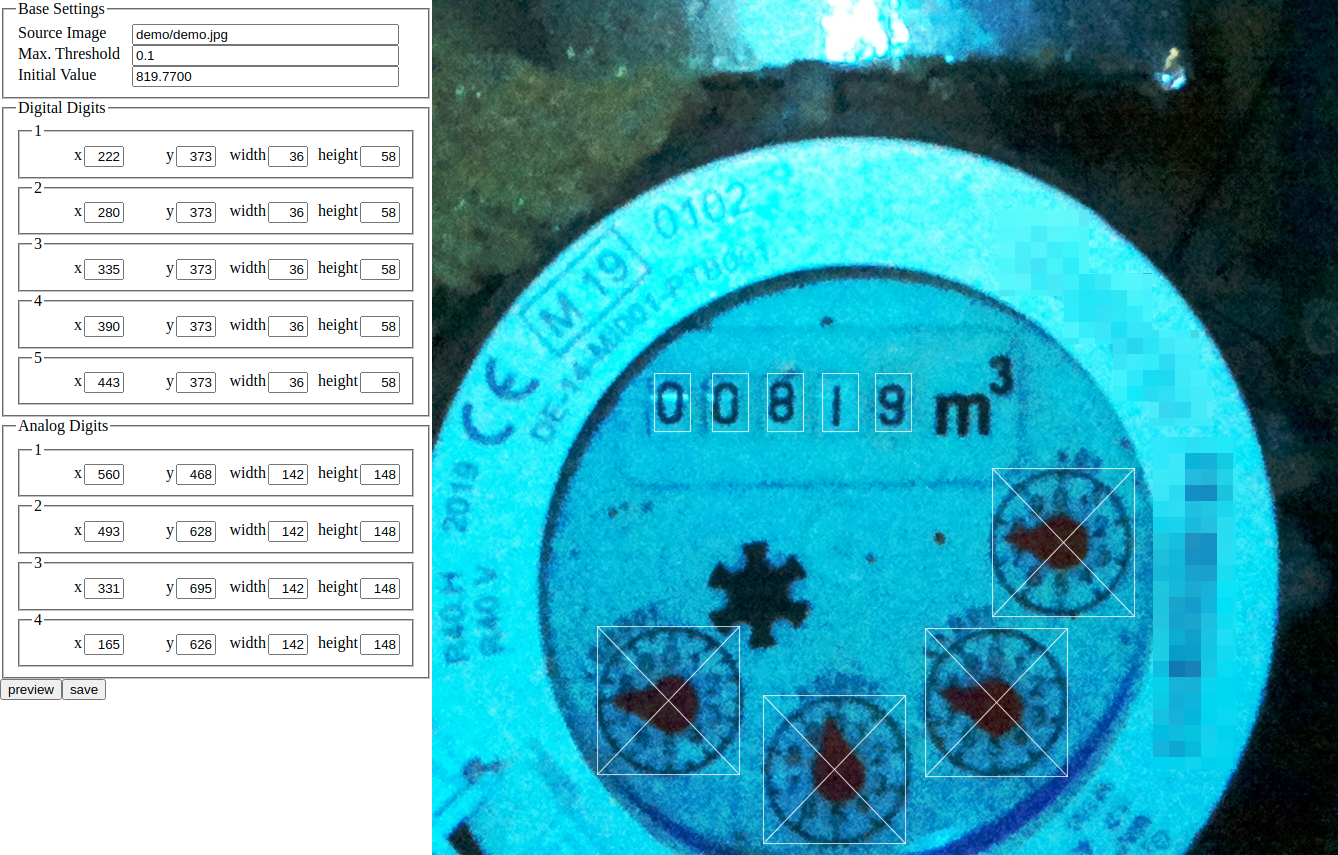
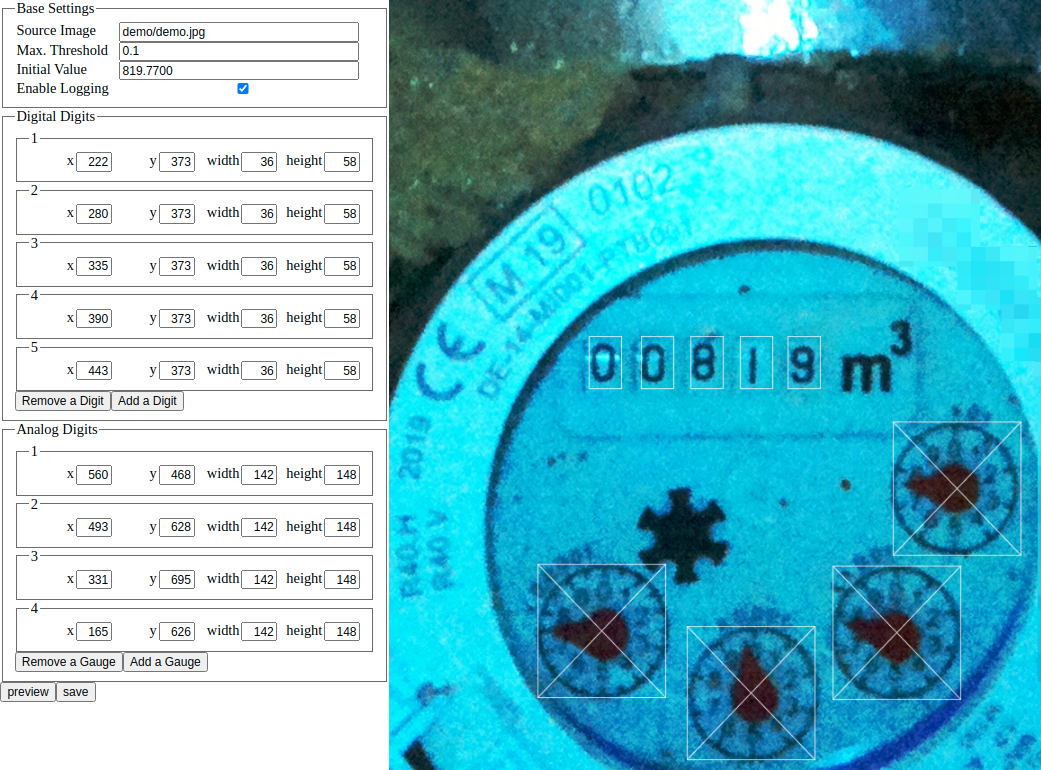
fix #6 - Allow to enable/disable logging

diff --git a/src/configure.php b/src/configure.php
@@ -14,6 +14,11 @@ if (isset($_POST['sourceImage'])) {
 if (isset($_POST['maxThreshold'])) {
     $config['maxThreshold'] = $_POST['maxThreshold'];
 }
+if (isset($_POST['logging']) && ($_POST['logging'] == 'on')) {
+    $config['logging'] = true;
+} else {
+    $config['logging'] = false;
+}
 if (isset($_POST['lastValue'])) {
     $lastValue = $_POST['lastValue'];
 }
@@ -53,14 +58,15 @@ if (isset($_POST) && ($_POST['action'] == 'save')) {
     </style>
     <script type="text/javascript">
         function removeElement(prefix) {
-            allElements = document.querySelectorAll("fieldset[id^="+prefix+"]");
-            return document.getElementById(prefix+"_"+allElements.length).remove();
+            allElements = document.querySelectorAll("fieldset[id^=" + prefix + "]");
+            return document.getElementById(prefix + "_" + allElements.length).remove();
         }
+
         function addElement(prefix) {
-            numberElements = document.querySelectorAll("fieldset[id^="+prefix+"]").length;
-            var form=document.getElementById('config');
+            numberElements = document.querySelectorAll("fieldset[id^=" + prefix + "]").length;
+            var form = document.getElementById('config');
             var input = document.createElement('input');
-            input.setAttribute('name', prefix+'['+(numberElements+1)+']');
+            input.setAttribute('name', prefix + '[' + (numberElements + 1) + ']');
             input.setAttribute('value', '0');
             input.setAttribute('type', 'hidden')
             form.appendChild(input);
@@ -80,6 +86,8 @@ if (isset($_POST) && ($_POST['action'] == 'save')) {
         <input type="text" name="maxThreshold" id="maxThreshold" value="<?php echo $config['maxThreshold']; ?>">
         <legend for="lastValue">Initial Value</legend>
         <input type="text" name="lastValue" id="lastValue" value="<?php echo $lastValue ?>">
+        <legend for="logging">Enable Logging</legend>
+        <input type="checkbox" name="logging" id="logging" <?php echo $config['logging'] == true ? 'checked' : ''; ?>>
     </fieldset>
     <?php
     $strokeColor = new ImagickPixel('white');

diff --git a/src/index.php b/src/index.php
@@ -108,7 +108,7 @@ try {
         $rawGaugeImage->setImagePage(0, 0, 0, 0);
         $amr = new AnalogMeter($rawGaugeImage, 'r');
         $decimalPlaces .= $amr->getValue();
-        if ($fullDebug || $logChanges) {
+        if ($fullDebug || ($logChanges && isset($config['logging']) && $config['logging'])) {
             echo $amr->getValue($fullDebug).'<br>';
             echo '<img src="debug/analog_' . $gaugeKey . '.png" /><br />';
             $debugData = $amr->getDebugData();
@@ -138,7 +138,7 @@ try {
     ) {
         $returnValue = $value;
         file_put_contents('config/lastValue.txt', $value);
-        if ($logChanges) {
+        if ($logChanges && isset($config['logging']) && $config['logging']) {
             $digitalSourceImage->writeImage('log/' . $now . '_' . $lastValue . '-' . $value . '_digital.jpg');
             for ($i = 0; $i < sizeof($logGaugeImages); $i++) {
                 $logGaugeImages[$i]->writeImage('log/' . $now . '_' . $lastValue . '-' . $value . '_analog_' . ($i + 1) . '_' . $logRedSteps[$i]['x'] . '-' . $logRedSteps[$i]['y'] . '_input.jpg');
@@ -167,6 +167,8 @@ try {
     }
     echo $returnValue;
 } catch (Exception $e) {
-    file_put_contents('error/' . $now . '_exception.txt', $e->__toString());
+    if (isset($config['logging']) && $config['logging']) {
+        file_put_contents('error/' . $now . '_exception.txt', $e->__toString());
+    }
     echo $lastValue;
 }

diff --git a/src/config/config.php b/src/config/config.php
@@ -1,5 +1,8 @@
 <?php
 $config = array(
+    // Enable logging in case data changes or an error occurs. If you'd like to access the logging data when running
+    // in docker(-compose), please mount /usr/src/watermeter/src/log/
+    'logging' => false,
     // Maximum volume change to accept between two updates.
     'maxThreshold' => 0.1,
     // Source image. Can either be a path to a file or an URL.

diff --git a/README.md b/README.md
@@ -6,21 +6,47 @@ Turns ![Watermeter](doc/watermeter.jpg) into ```820.5745``` so it can become ![G
 
 ![CI](https://github.com/nohn/watermeter/workflows/CI/badge.svg) ![Docker Hub Pulls](https://img.shields.io/docker/pulls/nohn/watermeter?label=docker%20hub%20pulls)
 
-## Demo
+## Getting Started
 
-After executing
+### Installation
+
+#### Docker
 
     docker run -p 127.0.0.1:3000:3000 nohn/watermeter:latest
 
-You can access a demo on
+#### Docker Compose
+
+```yaml
+version: "3.5"
+services:
+  watermeter:
+    image: nohn/watermeter:latest
+    container_name: watermeter
+    restart: always
+    ports:
+      - "127.0.0.1:3000:3000"
+```
+
+#### PHP
+
+Requires PHP >= 7.4 including Imagick and Tesseract OCR installed. Beware, official ext-Imagick releases currently fail to install with PHP 8, see Imagick/imagick#358.   
+
+```shell
+git pull https://github.com/nohn/watermeter.git
+composer install
+cd src/
+php -S 127.0.0.1:300
+```
+
+### Demo Access
+
+After installation, you can access a demo on
 
     http://127.0.0.1:3000/?debug
 
 respectivly
 
     http://127.0.0.1:3000/
-
-## Usage
 
 ### Taking the water meter image
 
@@ -32,7 +58,7 @@ from time import sleep
 from picamera import PiCamera
 
 led = LED(17) # Choose the correct pin number
-
+    
 camera = PiCamera()
 camera.resolution = (2592, 1944)
 camera.brightness = 60
@@ -52,36 +78,13 @@ Your mileage may vary, you have to play around a bit. I run
 
 for equalizing the results and improving contrast.
 
-### docker-compose
-
 #### Configuration
 
-Unless you want to run in demo mode, you need to provide a ```config/config.php```. An example is provided in [config/config.php](src/config/config.php). A configuration GUI is available, see below.
-
-#### Initial value
-
-Unless you want to run in demo mode, you need to provide the initival value in ```config/lastValue.txt```. An example is provided in [config/lastValue.txt](src/config/lastValue.txt). A configuration GUI is available, see below.
-
-#### Configuration GUI
-
-A config GUI is available at http://watermeter:3000/configure.php.
+Once you have found your way to take images of your water meter, you can access the configuration tool http://127.0.0.1:3000/configure.php. The interface should be self explanatory.
 
 ![Configuration GUI Screenshot](doc/configure.png)
 
-#### docker-compose.yaml
 
-```yaml
-version: "3.5"
-services:
-  watermeter:
-    image: nohn/watermeter:latest
-    container_name: watermeter
-    restart: always
-    volumes:
-      - ./watermeter/config:/usr/src/watermeter/src/config
-    ports:
-      - "3000:3000"
-```
 
 #### Integration in Home Assistant
 

diff --git a/CHANGELOG.md b/CHANGELOG.md
@@ -11,3 +11,8 @@
 - Fix #3 - Allow to add or remove digits in configuration GUI
 - Fix #4 - Allow to add or remove gauges in configuration GUI
 - Fix #8 - Docker Hub tag for Git branch "main" should be "latest" (so it's nohn/watermeter:latest from now on, nohn/watermeter:main will not work anymore)
+
+# 2021-02-XX vx.y.z
+
+- Fix #6 - Allow to enable/disable logging
+- Simplify setup
